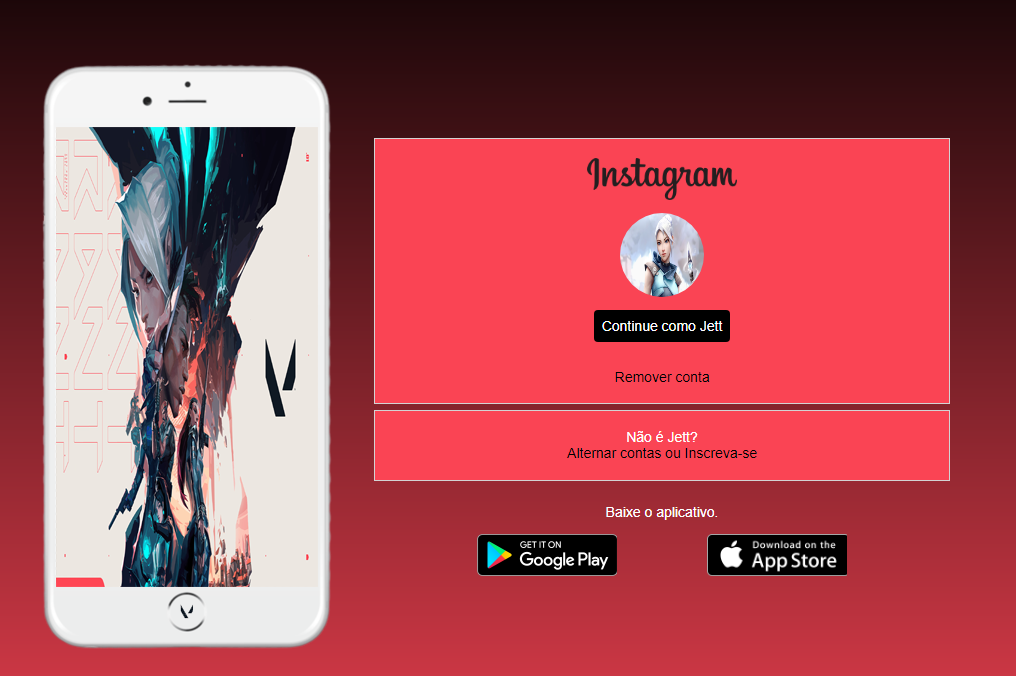
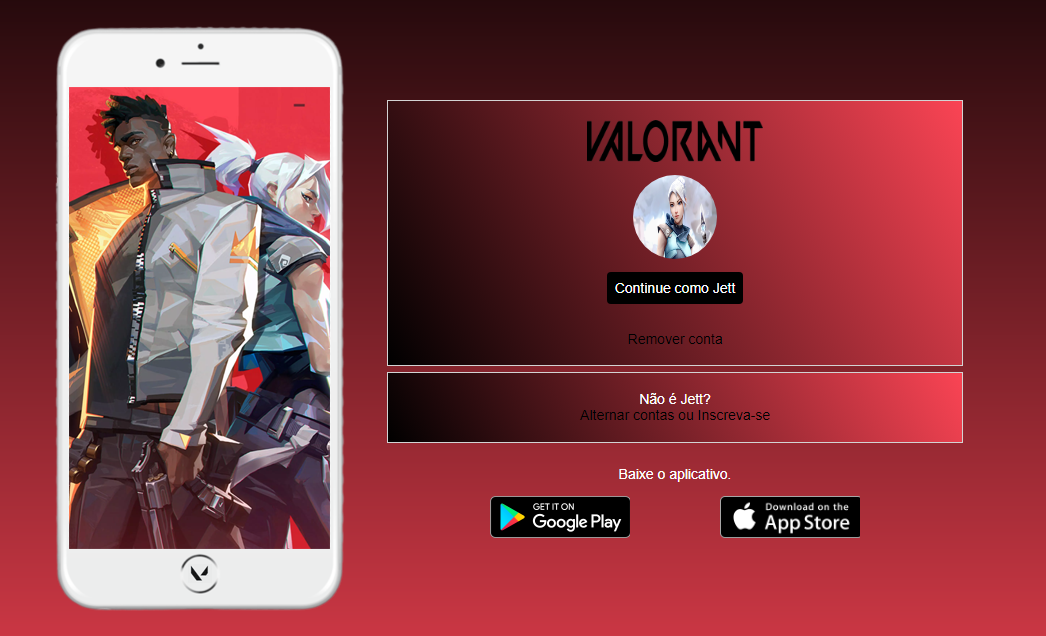
Novas funções

diff --git a/index.html b/index.html
@@ -13,11 +13,11 @@
         </div>
         <div class="instagram-continue">
             <div class="group">
-                <img src="./img/instagram-logo.png" class="instagram-logo" alt="instagram-logo">
+                <img src="./img/logo.png" class="instagram-logo" alt="instagram-logo">
                 <div class="profile-photo">
                     <img src="./img/profile.png" alt="foto de perfil">
                 </div>
-            <a href="#" class="instagram-login">Continue como Jett</a>
+            <a href="index2.html" class="instagram-login">Continue como Jett</a>
             <a href="#" class="instagram-logout">Remover conta</a>
             </div>
             <div class="group">

diff --git a/style.css b/style.css
@@ -43,7 +43,7 @@ body {
     justify-content: space-between;
     align-items: center;
     flex-direction: column;
-    background-color: #fa4454;
+    background-image: linear-gradient(60deg, black, #fa4454);
     width: 100%;
     padding: 1.3rem 0;
     border: 1px solid lightgray;

diff --git a/README.md b/README.md
@@ -4,20 +4,21 @@
          src="https://github.com/HunterDrakar/instagram-dio/blob/master/img/capa.png" 
          alt="Interface Instagram" 
     />
+    <img src="https://github.com/HunterDrakar/instagram-dio/blob/main/img/capa-profile.png" alt="Profile Instagram">
   </a>
   <br />
   
   <h1>Portuguese</h1>
 
-  Neste projeto eu recriei a interface do instagram colocando uma temática de um jogo da riot games chamado valorant.
+  Neste projeto eu recriei a interface de login e a página de perfil do instagram colocando uma temática de um jogo da riot games chamado valorant.
 
-  Neste exercicio foram utilizadas as linguagens HTML e CSS.
+  Neste exercicio foram utilizadas HTML, CSS e Bootstrap.
 
   <h1>English</h1>
 
-  In this project I recreated the instagram interface using the theme of the Valorant game
+  In this project I recreated the login interface and the instagram profile page using the theme of the Valorant game.
 
-  In this exercise HTML and CSS were used.
+  In this exercise HTML, CSS and Bootstrap were used.
 
 </p>
 
